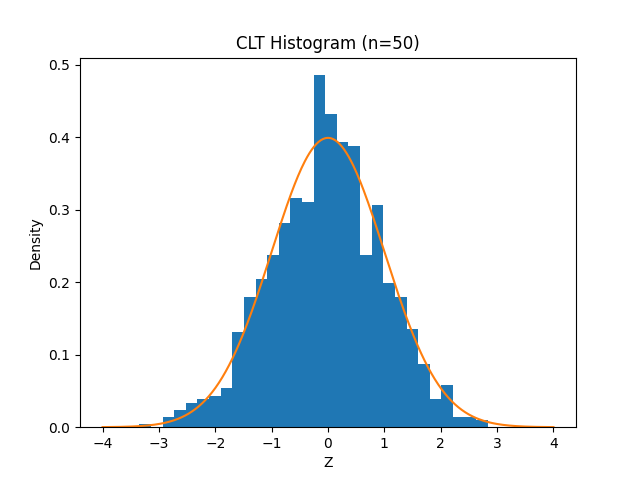
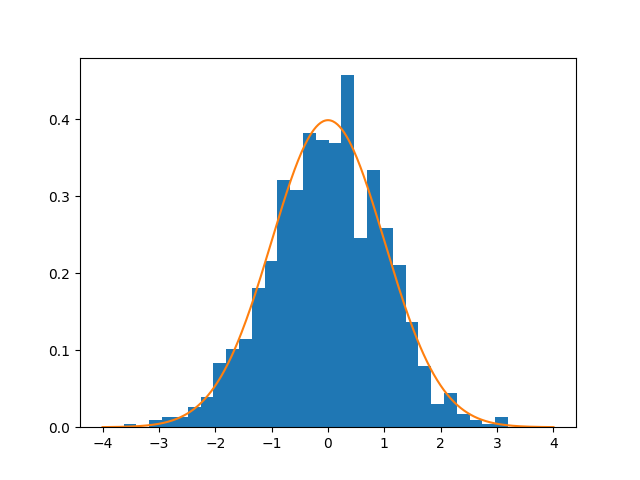
Add Task 3 CLT simulation

diff --git a/src/clt_simulation.py b/src/clt_simulation.py
@@ -6,38 +6,27 @@ import numpy as np
 import matplotlib.pyplot as plt
 import scipy.stats as stats
 
-# U[0,1] parameters
 mu = 0.5
 sigma = np.sqrt(1/12)
 
-# CLT settings
 n_values = [2, 5, 10, 30, 50]
 m = 1000
 
 os.makedirs("results/figures", exist_ok=True)
 
 for n in n_values:
-    # m experiments, each summing n uniforms
-    samples = np.random.uniform(0, 1, (m, n))
-    sums = samples.sum(axis=1)
-
-    # Standardization
+    data = np.random.uniform(0, 1, (m, n))
+    sums = data.sum(axis=1)
     Z = (sums - n * mu) / (sigma * np.sqrt(n))
 
-    # Histogram
     plt.figure()
     plt.hist(Z, bins=30, density=True)
     x = np.linspace(-4, 4, 400)
     plt.plot(x, stats.norm.pdf(x))
-    plt.xlabel("Z")
-    plt.ylabel("Density")
-    plt.title(f"CLT Histogram (n={n})")
     plt.savefig(f"results/figures/clt_histogram_n{n}.png")
     plt.close()
 
-    # Q-Q plot
     plt.figure()
     stats.probplot(Z, dist="norm", plot=plt)
-    plt.title(f"CLT Q-Q Plot (n={n})")
     plt.savefig(f"results/figures/clt_qqplot_n{n}.png")
     plt.close()
